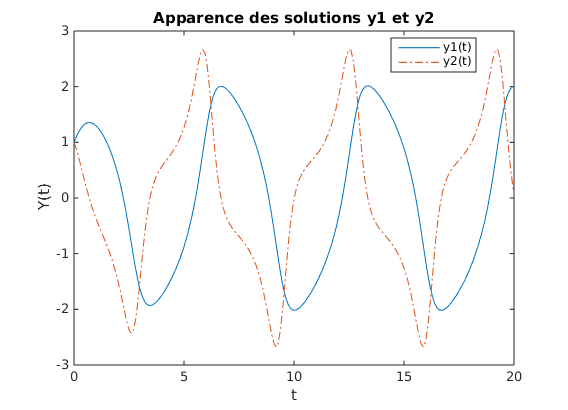
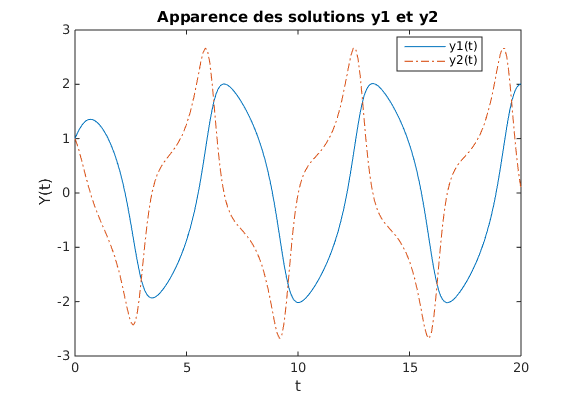
exo6

diff --git a/exo6_2.m b/exo6_2.m
@@ -1,0 +1,14 @@
+for i =1:1:1000
+    [T,Y]=ode23s(@(t,y)[y(2),(i*(1-y(1)*y(1))*y(2)-y(1))]', [0 6000],[1 1]);
+    MU=i*ones(length(T),1);
+    plot3(T,MU,Y(:,1),'-');
+    if (i==1)
+        hold on 
+    end;
+end;
+hold off
+xlabel('t')
+ylabel('mu')
+zlabel('y')
+
+

diff --git a/exo6_3.m b/exo6_3.m
@@ -1,0 +1,14 @@
+for i =1:1:1000
+    [T,Y]=ode23s(@(t,y)[y(2),(i*(1-y(1)*y(1))*y(2)-y(1))]', [0 6000],[1 1]);
+    MU=i*ones(length(T),1);
+    plot3(T,MU,Y(:,1),'-');
+    if (i==1)
+        hold on 
+    end;
+end;
+hold off
+xlabel('t')
+ylabel('mu')
+zlabel('y')
+
+

diff --git a/exo6_dydt_2.m b/exo6_dydt_2.m
@@ -1,0 +1,4 @@
+function dy = rigid(t,y)
+dy = zeros(2,1) ;
+dy(1) = y(2) ;
+dy(2) = 1000*(1-y(1)^2)*y(2)-y(1) ;

diff --git a/exo6_dydt.m b/exo6_dydt.m
@@ -1,0 +1,4 @@
+function dy = rigid(t,y)
+dy = zeros(2,1) ;
+dy(1) = y(2) ;
+dy(2) = 1*(1-y(1)^2)*y(2)-y(1)
